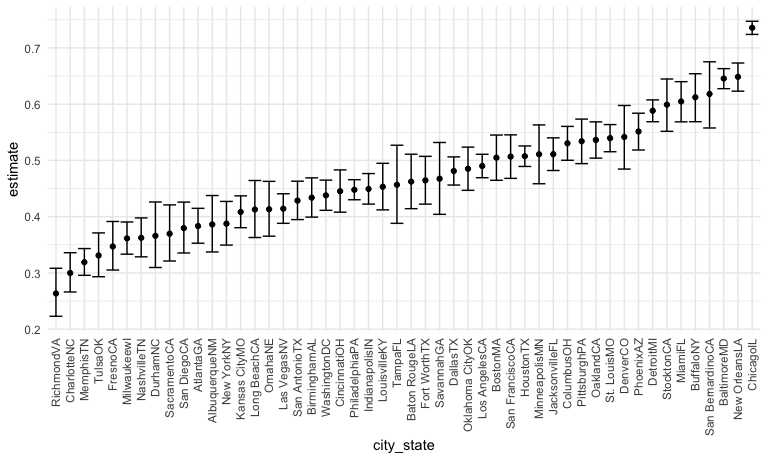
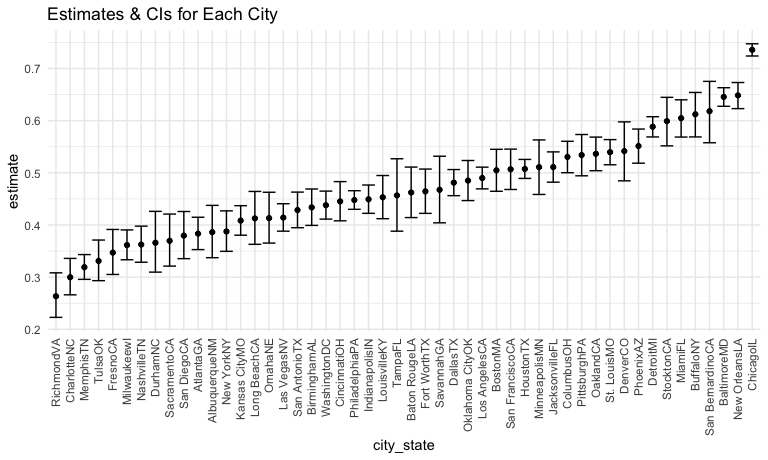
Problem3: Write function for missing values and apply to the dataset

diff --git a/p8105_hw5_yc4018.md b/p8105_hw5_yc4018.md
@@ -150,7 +150,8 @@ results_df %>%
   ggplot(aes(x = city_state, y = estimate)) +
   geom_point() +
   geom_errorbar(aes(ymin = conf.low, ymax = conf.high)) +
-  theme(axis.text.x = element_text(angle = 90, vjust = 0.5, hjust = 1))
+  theme(axis.text.x = element_text(angle = 90, vjust = 0.5, hjust = 1)) +
+  labs(title = "Estimates & CIs for Each City") 
 ```
 
 <img src="p8105_hw5_yc4018_files/figure-gfm/unnamed-chunk-5-1.png" width="90%" />
@@ -253,12 +254,12 @@ iris_with_missing = iris %>%
   mutate(Species = as.character(Species))
 ```
 
-For numeric variables, you should fill in missing values with the mean
-of non-missing values For character variables, you should fill in
-missing values with “virginica” 1.
+1.  Write function for missing values and apply to the columns of
+    `iris_with_missing`:
 
 ``` r
 na_function = function(z){
+  
   if (is.numeric(z)) {
     z = ifelse(is.na(z), mean(z, na.rm = TRUE), z)
   }
@@ -268,4 +269,28 @@ na_function = function(z){
   
   return(z)
 }
+
+iris_without_missing = map_df(iris_with_missing, na_function)
+
+# check missing values:
+sum(is.na(iris_without_missing))
 ```
+
+    ## [1] 0
+
+``` r
+knitr::kable(iris_without_missing[0:10,], digits = 2,)
+```
+
+| Sepal.Length | Sepal.Width | Petal.Length | Petal.Width | Species |
+|-------------:|------------:|-------------:|------------:|:--------|
+|         5.10 |         3.5 |         1.40 |        0.20 | setosa  |
+|         4.90 |         3.0 |         1.40 |        0.20 | setosa  |
+|         4.70 |         3.2 |         1.30 |        0.20 | setosa  |
+|         4.60 |         3.1 |         1.50 |        1.19 | setosa  |
+|         5.00 |         3.6 |         1.40 |        0.20 | setosa  |
+|         5.40 |         3.9 |         1.70 |        0.40 | setosa  |
+|         5.82 |         3.4 |         1.40 |        0.30 | setosa  |
+|         5.00 |         3.4 |         1.50 |        0.20 | setosa  |
+|         4.40 |         2.9 |         1.40 |        0.20 | setosa  |
+|         4.90 |         3.1 |         3.77 |        0.10 | setosa  |
